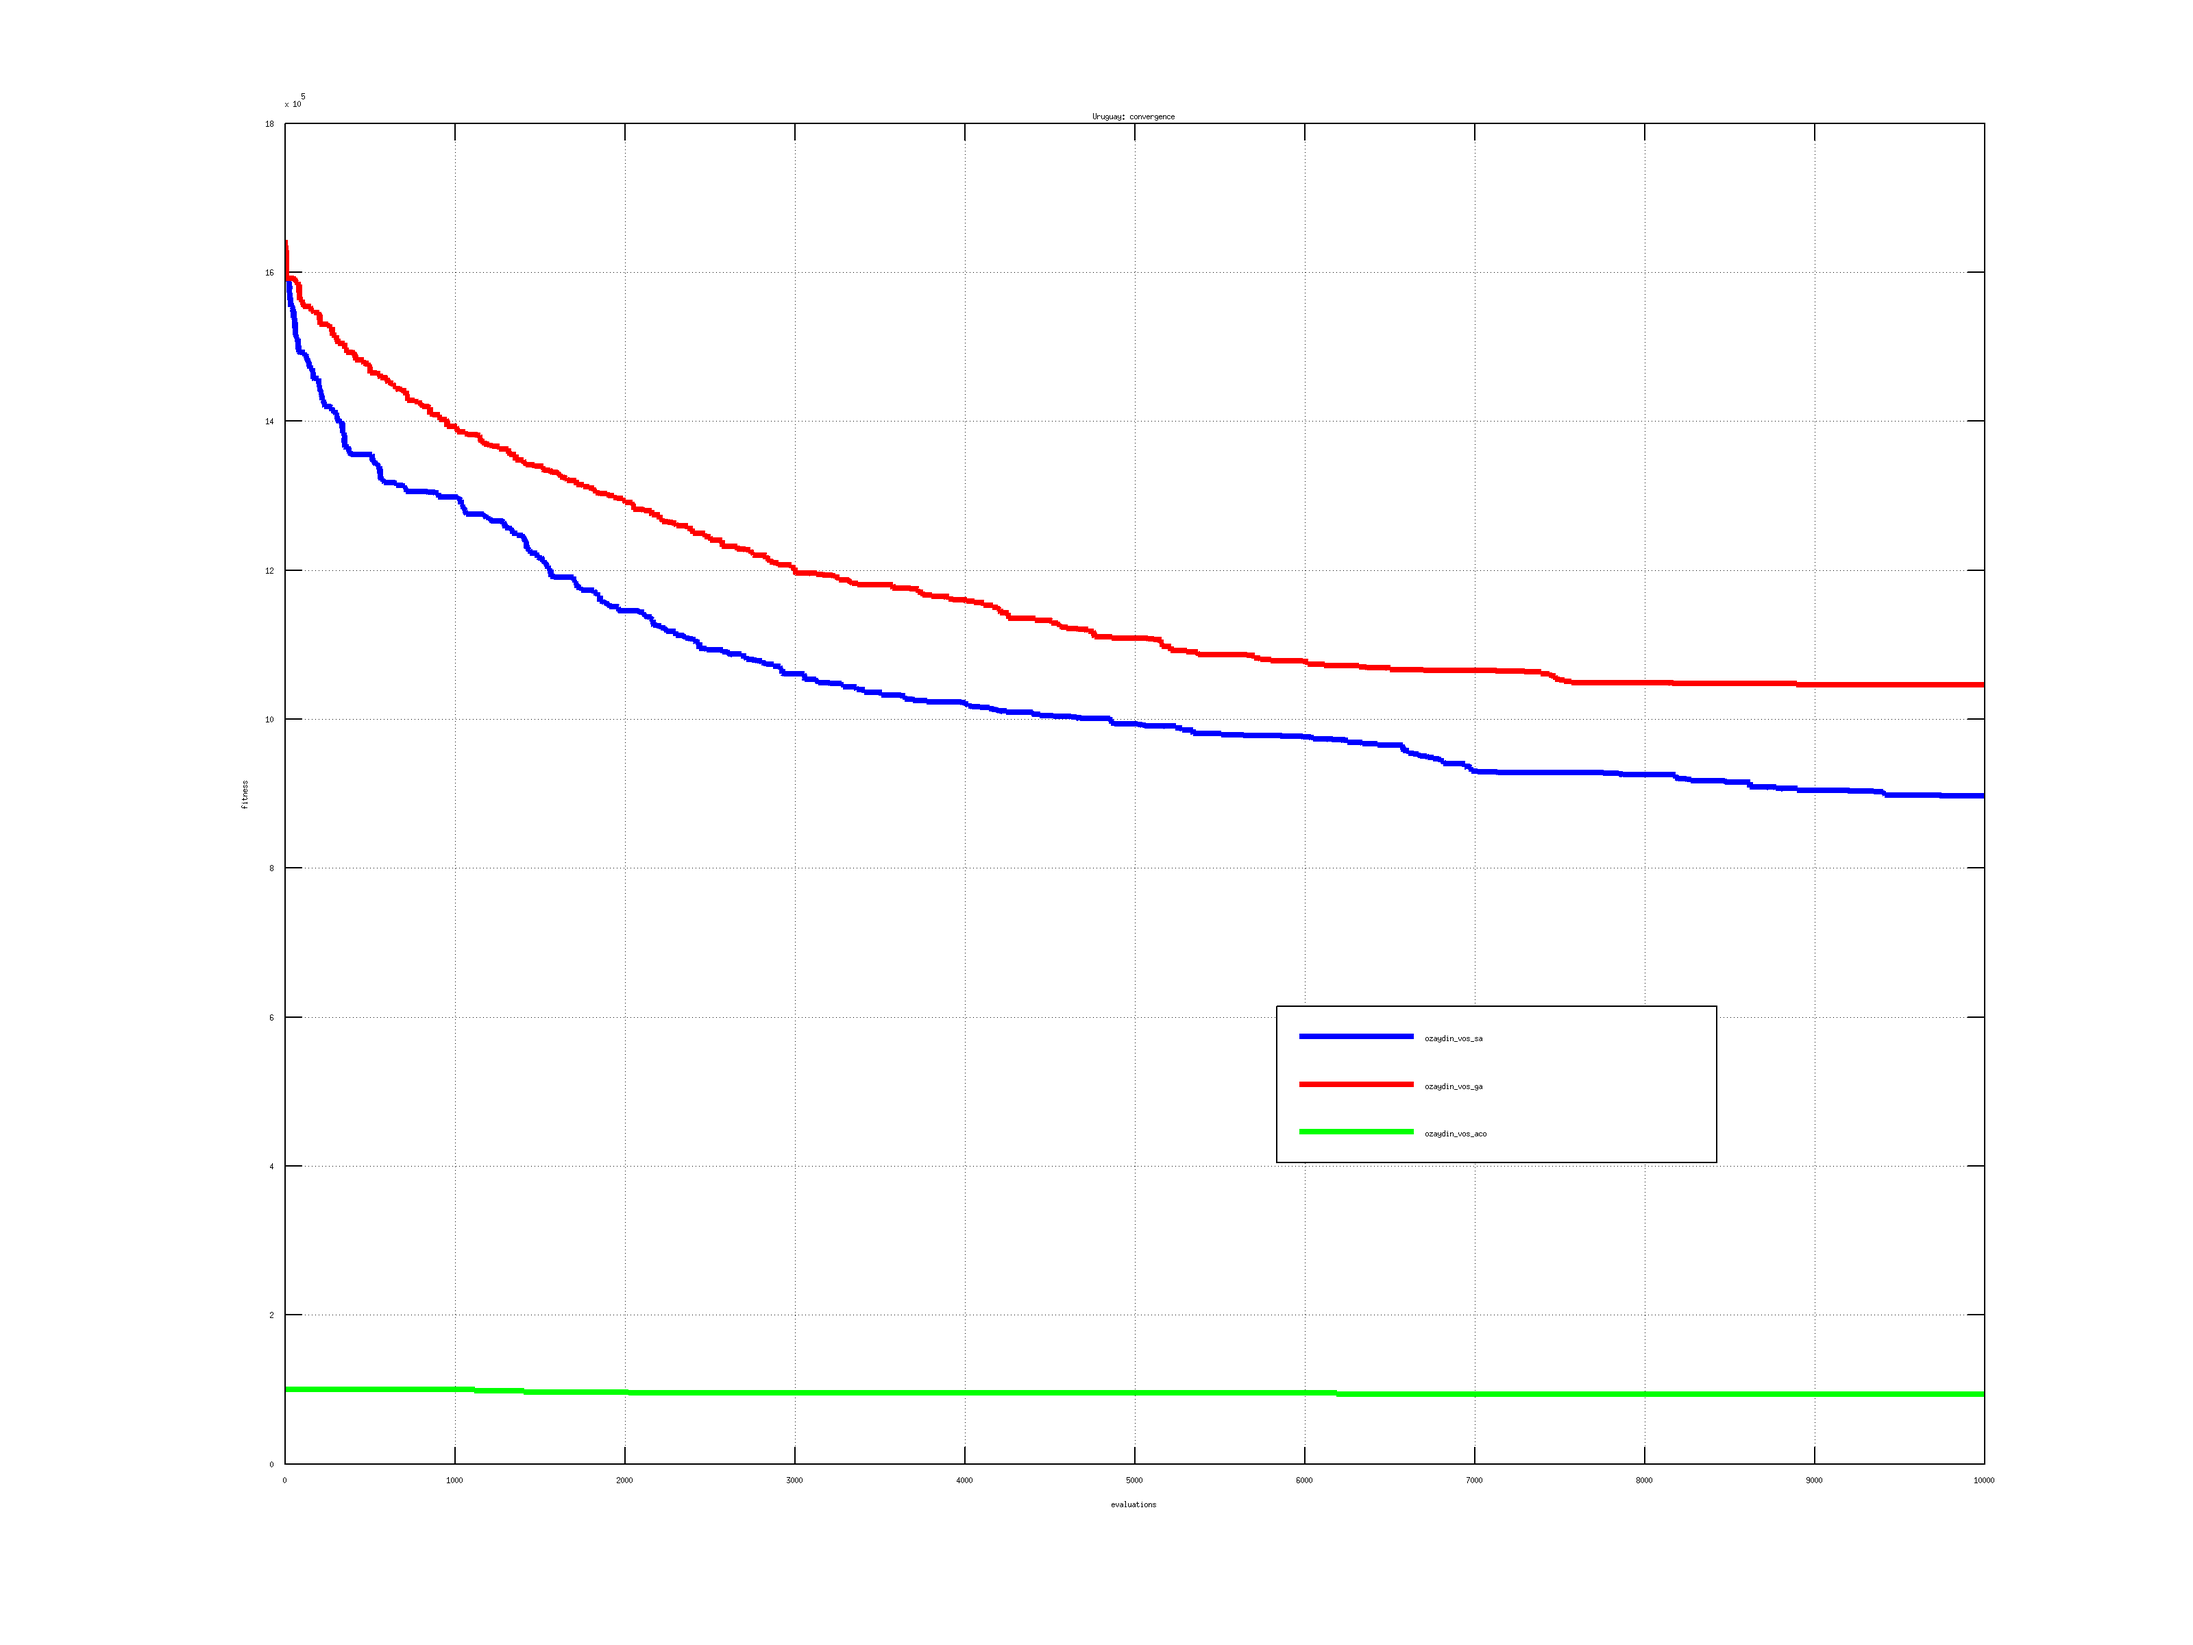
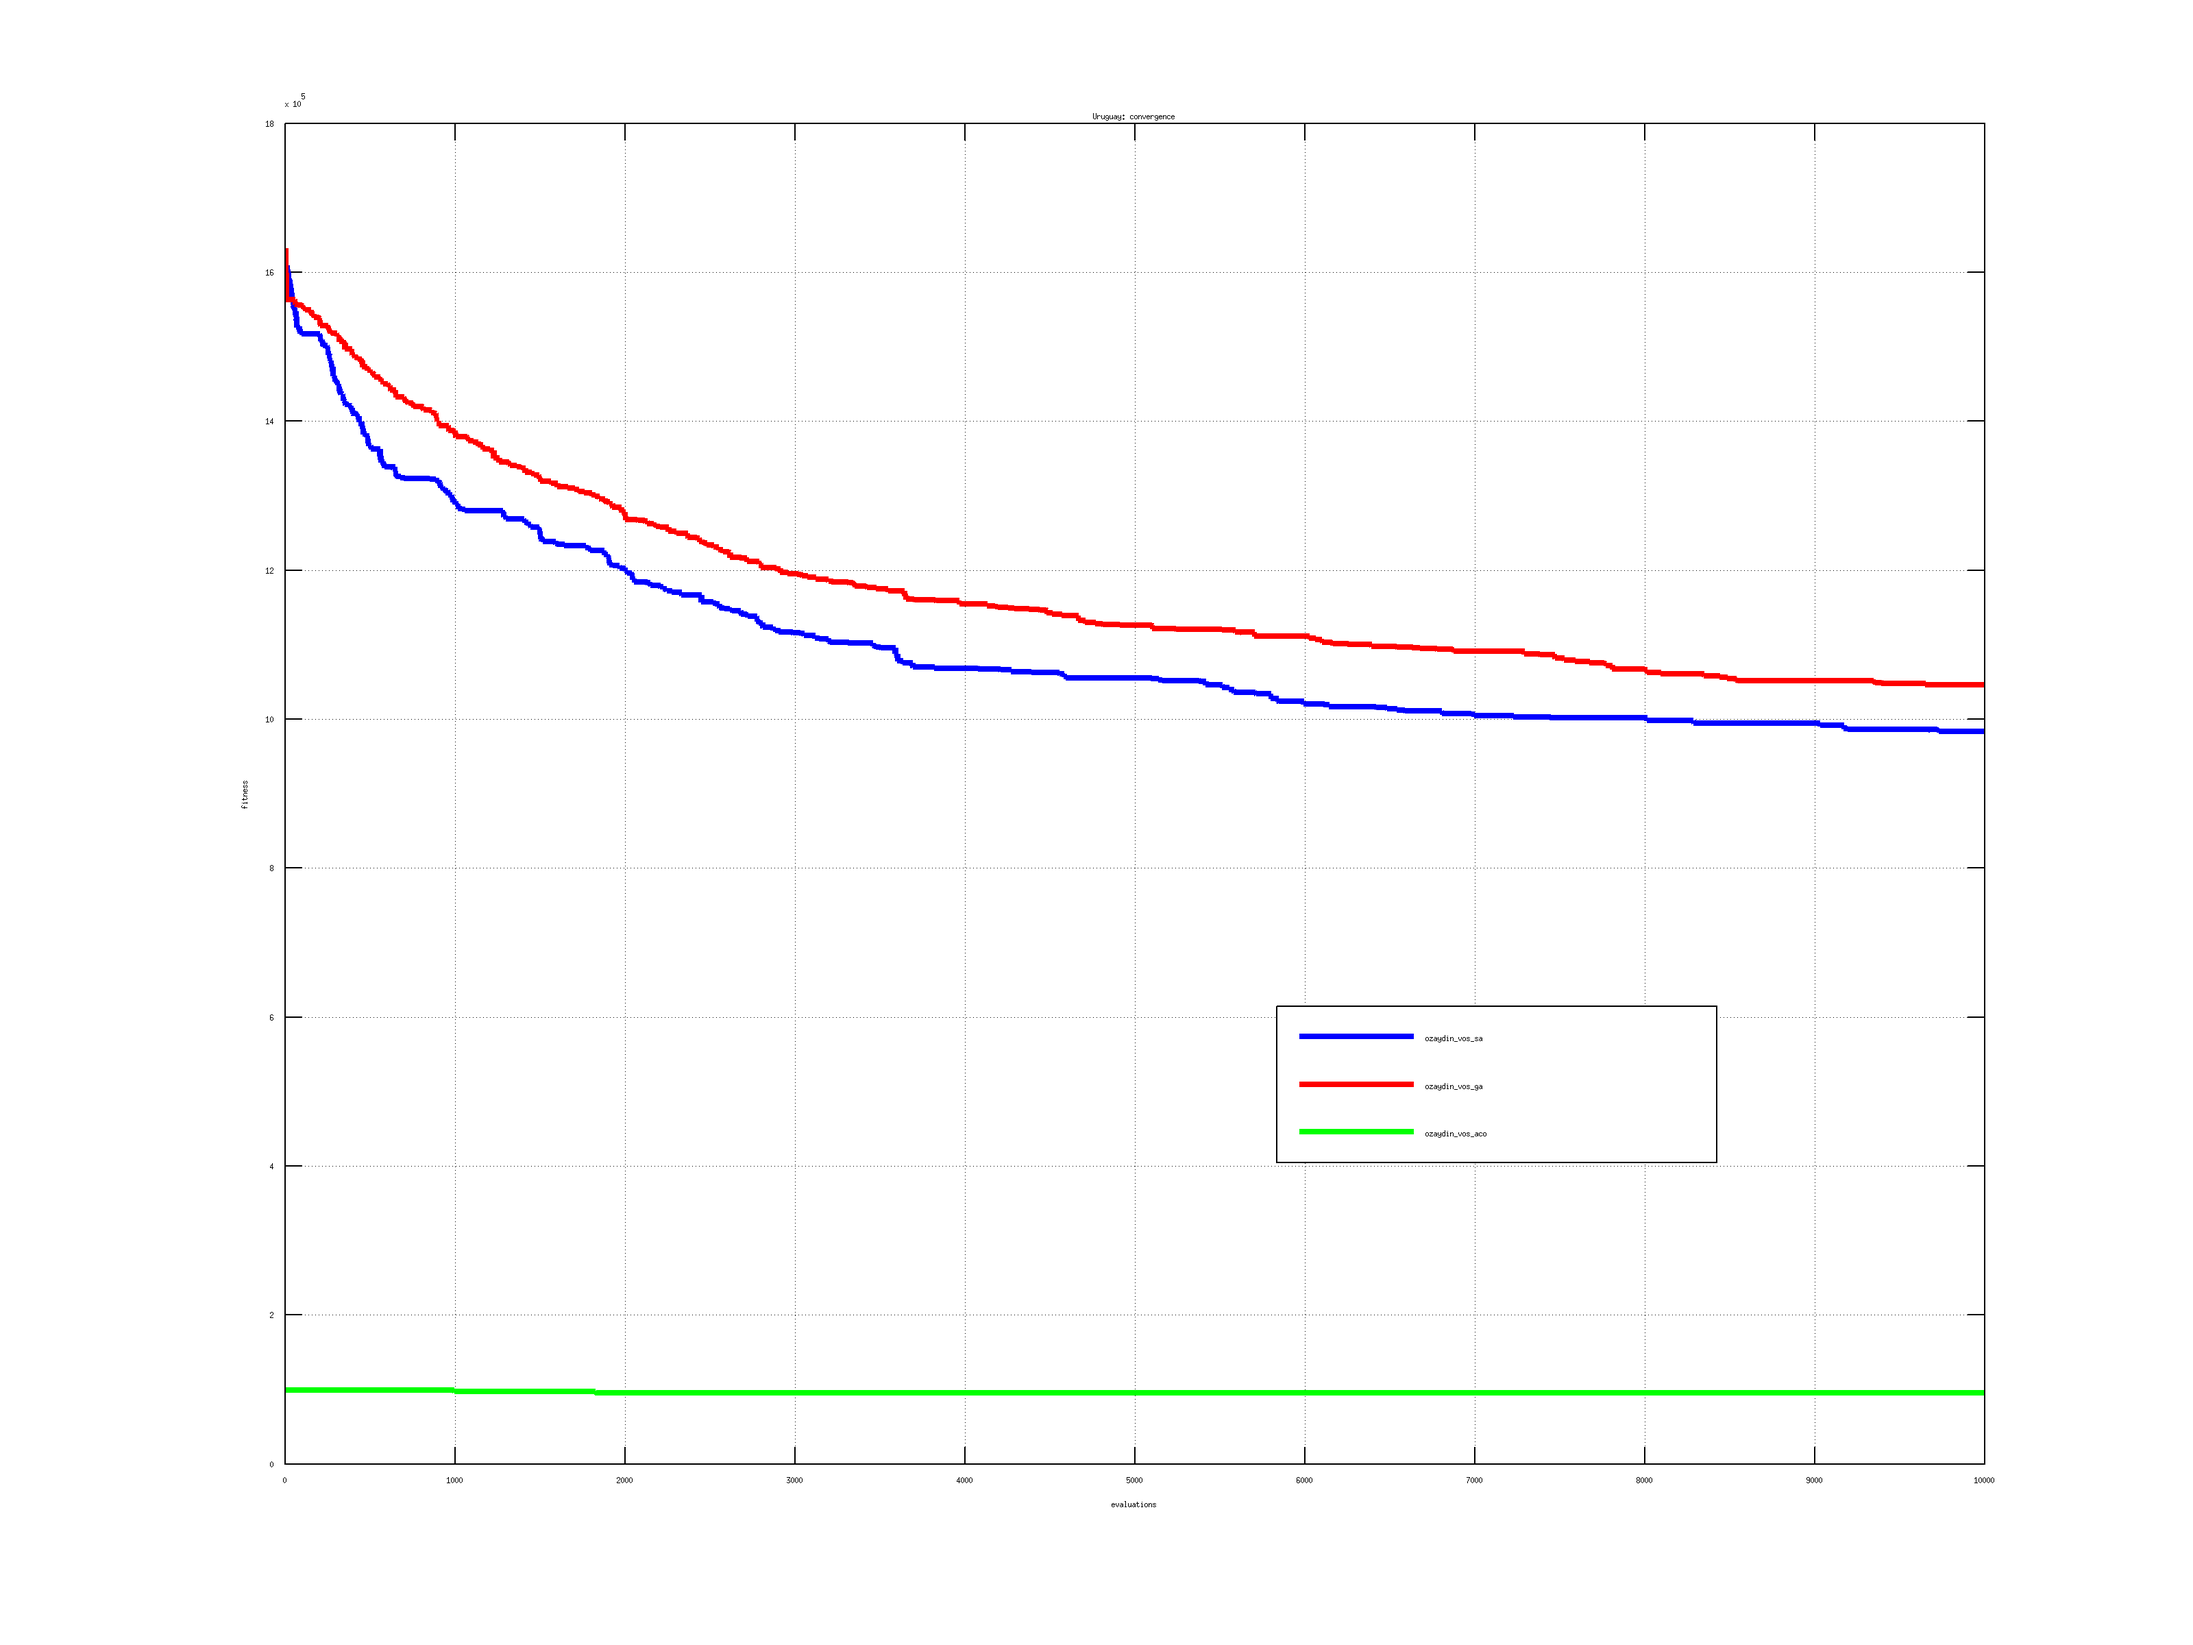
other values of pm

Changed region(s): [[0.125, 0.1562, 0.9062, 0.5]]

diff --git a/ozaydin_vos_sa.m b/ozaydin_vos_sa.m
@@ -22,8 +22,8 @@ function [opt_tour, opt_tour_length] = sa_skeleton(tsp_instance, eval_budget)
 	[num_cities, coordinates, distance_matrix] = analyze_tsp(tsp_instance);
 
 	% Initialize static parameters
-	pm = 4; % Fixed amount of mutations
-	alpha = 0.9; % temperature decrease after each step
+	pm = 1; % Fixed amount of mutations
+	alpha = 0.95; % temperature decrease after each step
 	k = 100; % amount of iterations
 	
 	% Set initial temperature

diff --git a/ozaydin_vos_ga.m b/ozaydin_vos_ga.m
@@ -24,7 +24,7 @@ function [opt_tour, opt_tour_length] = ga_skeleton(tsp_instance, eval_budget)
 	% Initialize static parameters
 	lambda = 50; % amount of individuals
 	pc = 0.8; % amount between 0 and 1, chance to crossover, or just copy the parent
-	pm = 4; % Fixed amount of mutations
+	pm = 1; % Fixed amount of mutations
 	q = 70; % amount of loops in select_tournament
 
 	% Statistics data
